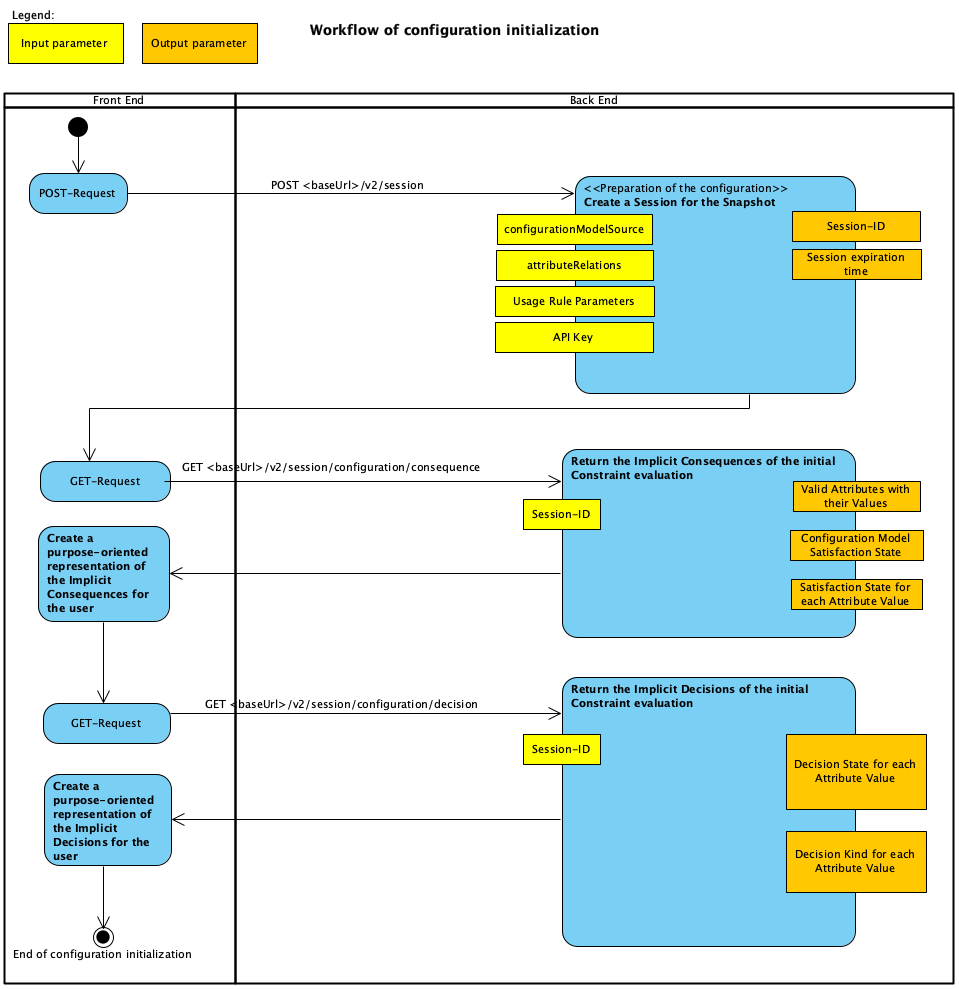
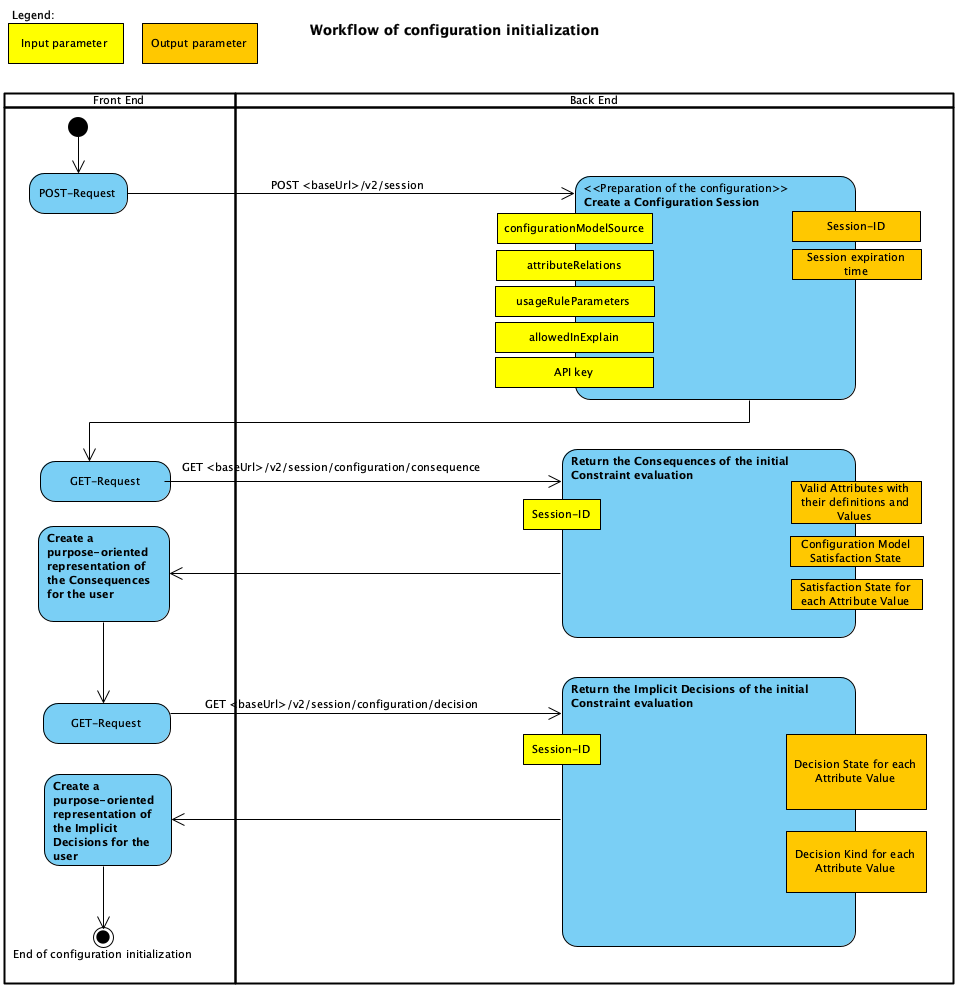
some adding

diff --git a/basic-workflow/index.md b/basic-workflow/index.md
@@ -1,4 +1,27 @@
 # 5 The basic configuration workflow
+Before a [*Configuration Dialogue*](/glossary/terms-infrastructure/#configuration-dialogue) can begin,
+the prerequisites must be created on the server side.
+A [*Configuration Session*](/glossary/terms-infrastructure/#configuration-session)
+is therefore created with an initial POST request and the
+[*Configuration Model*](/glossary/terms-modelling/#configuration-model) to be used is activated.
+
+The important question of whether or not
+[*Configuration Rules*](/glossary/terms-modelling/#configuration-rule) should be included in an
+[*Explanation Response*](/glossary/terms-state/#explanation-response) alongside
+Attributes is also decided during initialization.
+
+Optionally, [*Usage Rules*](/glossary/terms-modelling/#usage-rule) and
+[*Attribute Relations*](/glossary/terms-modelling/#attribute-relations) can be announced
+in the session.
+
+
+
+
+
+
+
+
+
 <a id ="overview"></a>
 ## 5.1 Overview
 <a id ="deployment"></a>

diff --git a/glossary/terms-modelling/index.md b/glossary/terms-modelling/index.md
@@ -14,9 +14,6 @@ The following steps are necessary:
 The Configuration Model Developer (CMD) is available as a comprehensive development environment.
 
 
-
-
-
 <a name ="attribute"></a>
 ### Attribute
 An *Attribute* in general is a specific representation of a characteristic of a real-world product.
@@ -111,6 +108,10 @@ A Boolean Attribute is assigned one of two discrete [*Values*](#value).
 The value of a Component Attribute is a reference to a
 [Component Configuration Model](#component-configuration-model).
 
+<a name ="attribute-relations"></a>
+### Attribute Relations
+*Attribute Relations* can be used to specify, which [*Decisions*](/glossary/terms-state/#decision)
+are to be respected for which Attribute.
 
 <a name ="configuration-model"></a>
 ### Configuration Model

diff --git a/basic-workflow/initialization/index.md b/basic-workflow/initialization/index.md
@@ -5,7 +5,7 @@ The initialization steps are shown in Figure 5-2:
 
 ![](ConfigurationInitializationWorkflow.png "The initialization workflow")
 
-Figure 5-2: Sequence of events of the initialization workflow (*the picture needs to be updated*)
+Figure 5-2: Sequence of events of the initialization workflow
 
 The initialization starts with a POST request to create a [*Configuration Session*](/glossary/#session) for the [*Configuration Dialogue*](/glossary/#configuration-dialogue).
 There are two ways to make a [*Configuration Model*](/glossary/#configuration-model), which generally consists of several
